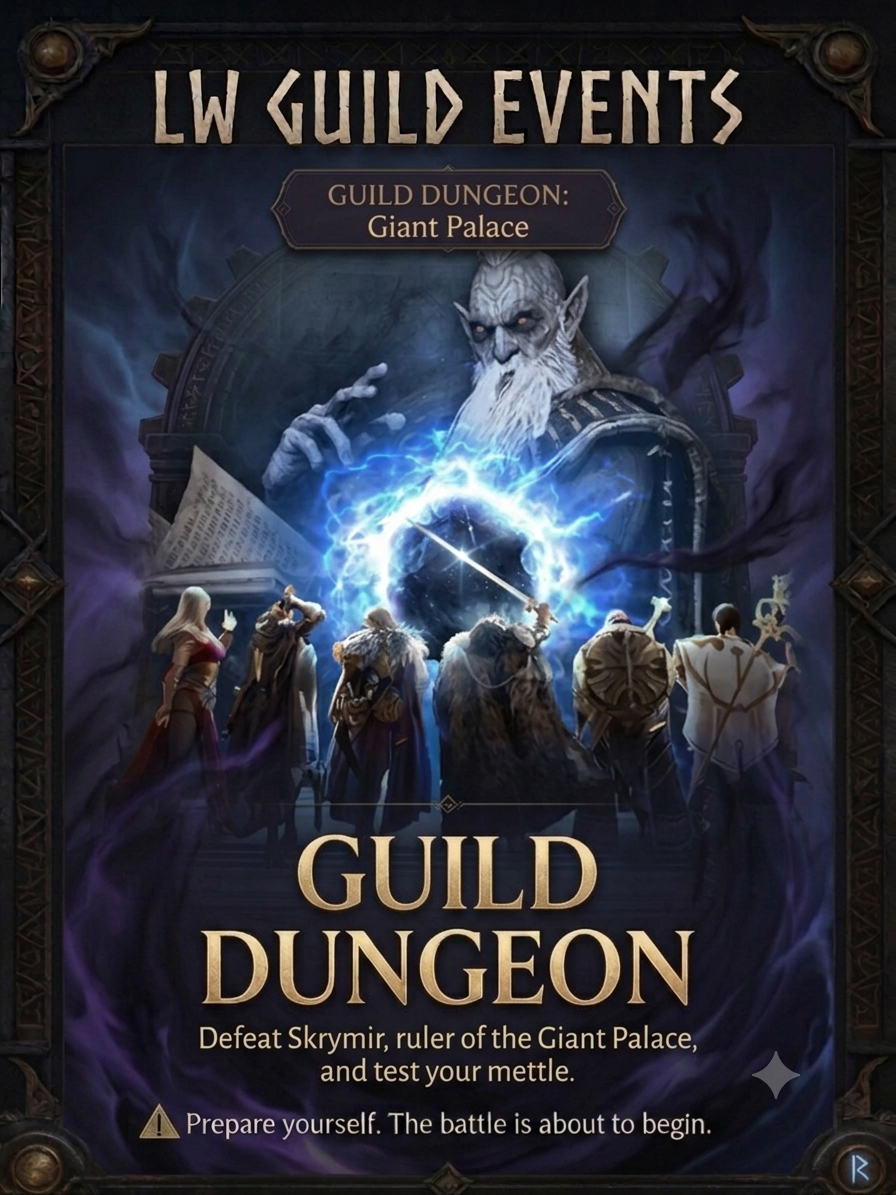
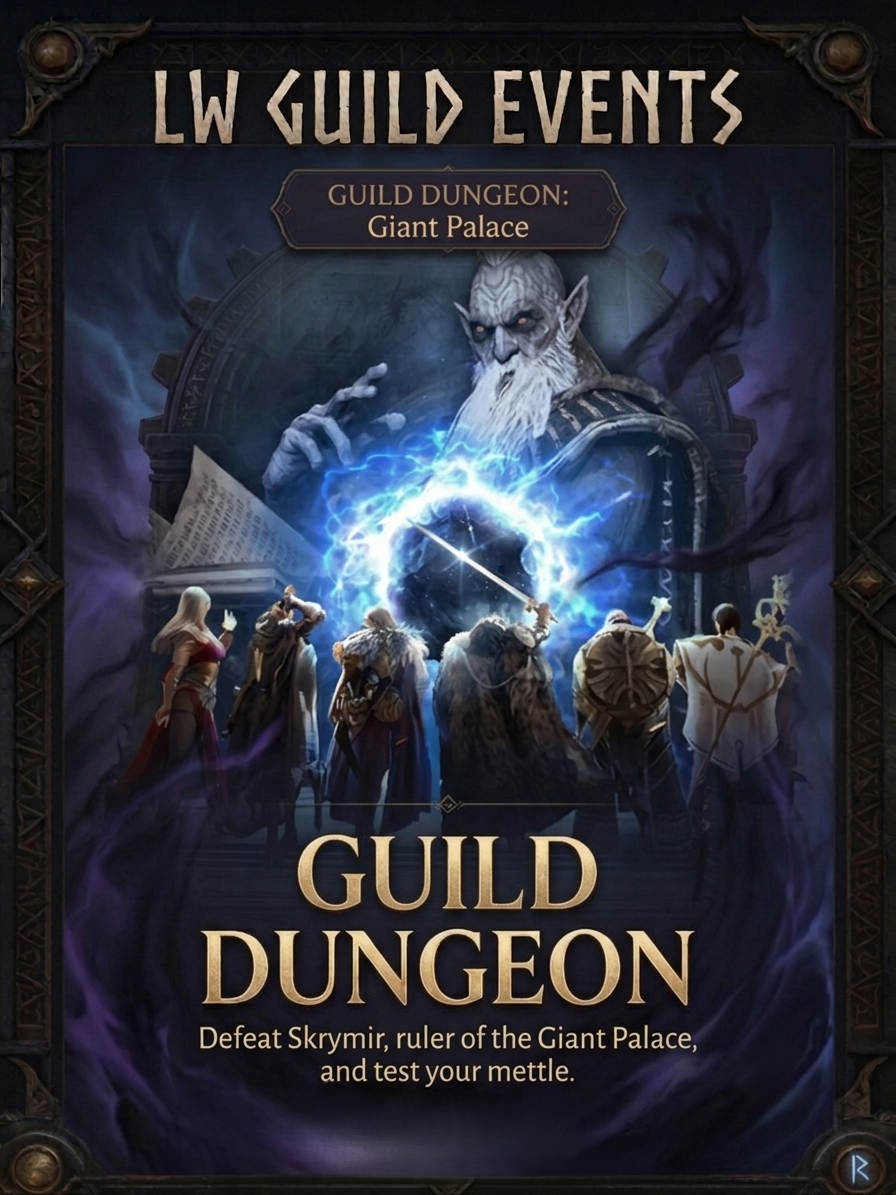
added a boss list show next 24h

Changed region(s): [[0.1562, 0.9289, 0.7812, 0.9908], [0.8438, 0.8669, 0.9062, 0.9289]]

diff --git a/cogs/boss_timers.py b/cogs/boss_timers.py
@@ -38,6 +38,7 @@ class BossTimers(commands.Cog):
         self.bot = bot
         self.boss_timers = {}
         self.update_message_id = None
+        self.upcoming_message_id = None
         self.UPDATE_MESSAGE_LOCKED = asyncio.Lock()
         self.static_events_file = Path('data') / 'static_events.json'
         self.static_image_dir = Path('data') / 'static_images'
@@ -100,6 +101,38 @@ class BossTimers(commands.Cog):
             content += f"\n\n{extra_informations}"
 
         return content
+
+    def _build_upcoming_events_section(
+        self,
+        now: float | None = None,
+        horizon_seconds: int = 24 * 60 * 60,
+        max_items: int = 20,
+        timers: dict | None = None,
+    ) -> str:
+        now_ts = now if now is not None else time.time()
+        cutoff_ts = now_ts + horizon_seconds
+        source = timers if timers is not None else self.boss_timers
+
+        upcoming = [
+            (timestamp, boss_data)
+            for timestamp, boss_data in sorted(source.items())
+            if now_ts <= timestamp <= cutoff_ts
+        ]
+
+        if not upcoming:
+            return "**Upcoming events (next 24h):**\nNo upcoming events in the next 24 hours."
+
+        shown = upcoming[:max_items]
+        lines = ["**Upcoming events (next 24h):**"]
+        for timestamp, boss_data in shown:
+            boss_name = boss_data.get('name', 'Unknown Event')
+            lines.append(f"- **{boss_name}**: <t:{timestamp}:F> (<t:{timestamp}:R>)")
+
+        remaining = len(upcoming) - len(shown)
+        if remaining > 0:
+            lines.append(f"- ...and {remaining} more event(s).")
+
+        return "\n".join(lines)
 
     @staticmethod
     def _normalize_alert_mention(mention: str | None) -> str:
@@ -409,6 +442,17 @@ class BossTimers(commands.Cog):
         self.update_message_id = sent_message.id
         return sent_message
 
+    async def _get_or_create_upcoming_message(self, update_channel):
+        if self.upcoming_message_id:
+            try:
+                return await update_channel.fetch_message(self.upcoming_message_id)
+            except discord.NotFound:
+                self.upcoming_message_id = None
+
+        sent_message = await update_channel.send("Fetching upcoming events...")
+        self.upcoming_message_id = sent_message.id
+        return sent_message
+
     async def _safe_edit_update_message(self, message, content: str, image_path: str | None = None):
         if image_path and os.path.exists(image_path):
             try:
@@ -463,10 +507,15 @@ class BossTimers(commands.Cog):
         async with self.UPDATE_MESSAGE_LOCKED:
             try:
                 message_to_edit = await self._get_or_create_update_message(update_channel)
+                upcoming_message_to_edit = await self._get_or_create_upcoming_message(update_channel)
                 await self._cleanup_expired_timers()
 
                 if not self.boss_timers:
                     await message_to_edit.edit(content="There are no upcoming bosses scheduled.", attachments=[])
+                    await upcoming_message_to_edit.edit(
+                        content=self._build_upcoming_events_section(now=time.time()),
+                        attachments=[],
+                    )
                     return
 
                 next_timestamp, boss_data = self._get_next_timer()
@@ -476,12 +525,15 @@ class BossTimers(commands.Cog):
                 next_boss_name = boss_data['name']
                 image_path = boss_data['image']
                 message_content = self._build_event_message_content(next_boss_name, next_timestamp, boss_data)
+                upcoming_content = self._build_upcoming_events_section(now=time.time())
 
                 if image_path and os.path.exists(image_path):
                     await self._safe_edit_update_message(message_to_edit, message_content, image_path=image_path)
                 else:
                     print("Image file not found for next Event, updating without image.")
                     await self._safe_edit_update_message(message_to_edit, message_content)
+
+                await self._safe_edit_update_message(upcoming_message_to_edit, upcoming_content)
 
                 alert_candidates = self._get_alert_candidates(now=time.time())
                 for alert_timestamp, alert_boss_data in alert_candidates:

diff --git a/tests/test_boss_timers.py b/tests/test_boss_timers.py
@@ -38,6 +38,30 @@ def test_alert_candidates_include_custom_static_alert_windows():
     assert [data["name"] for _, data in candidates] == ["Normal Boss", "Static Boss"]
 
 
+def test_build_upcoming_events_section_lists_only_next_24h_sorted():
+    cog = module.BossTimers.__new__(module.BossTimers)
+    timers = {
+        900: {"name": "Already Expired"},
+        1100: {"name": "Soon"},
+        1200: {"name": "Later"},
+        1100 + (24 * 60 * 60) + 5: {"name": "Beyond 24h"},
+    }
+
+    section = cog._build_upcoming_events_section(now=1000, timers=timers)
+
+    assert "Soon" in section
+    assert "Later" in section
+    assert "Already Expired" not in section
+    assert "Beyond 24h" not in section
+    assert section.index("Soon") < section.index("Later")
+
+
+def test_build_upcoming_events_section_handles_empty_window():
+    cog = module.BossTimers.__new__(module.BossTimers)
+    section = cog._build_upcoming_events_section(now=1000, timers={900: {"name": "Past"}})
+    assert "No upcoming events in the next 24 hours." in section
+
+
 def test_timer_loop_interval_is_stable_at_15_seconds():
     cog = module.BossTimers.__new__(module.BossTimers)
     assert cog.manage_boss_timers_task.seconds == 15